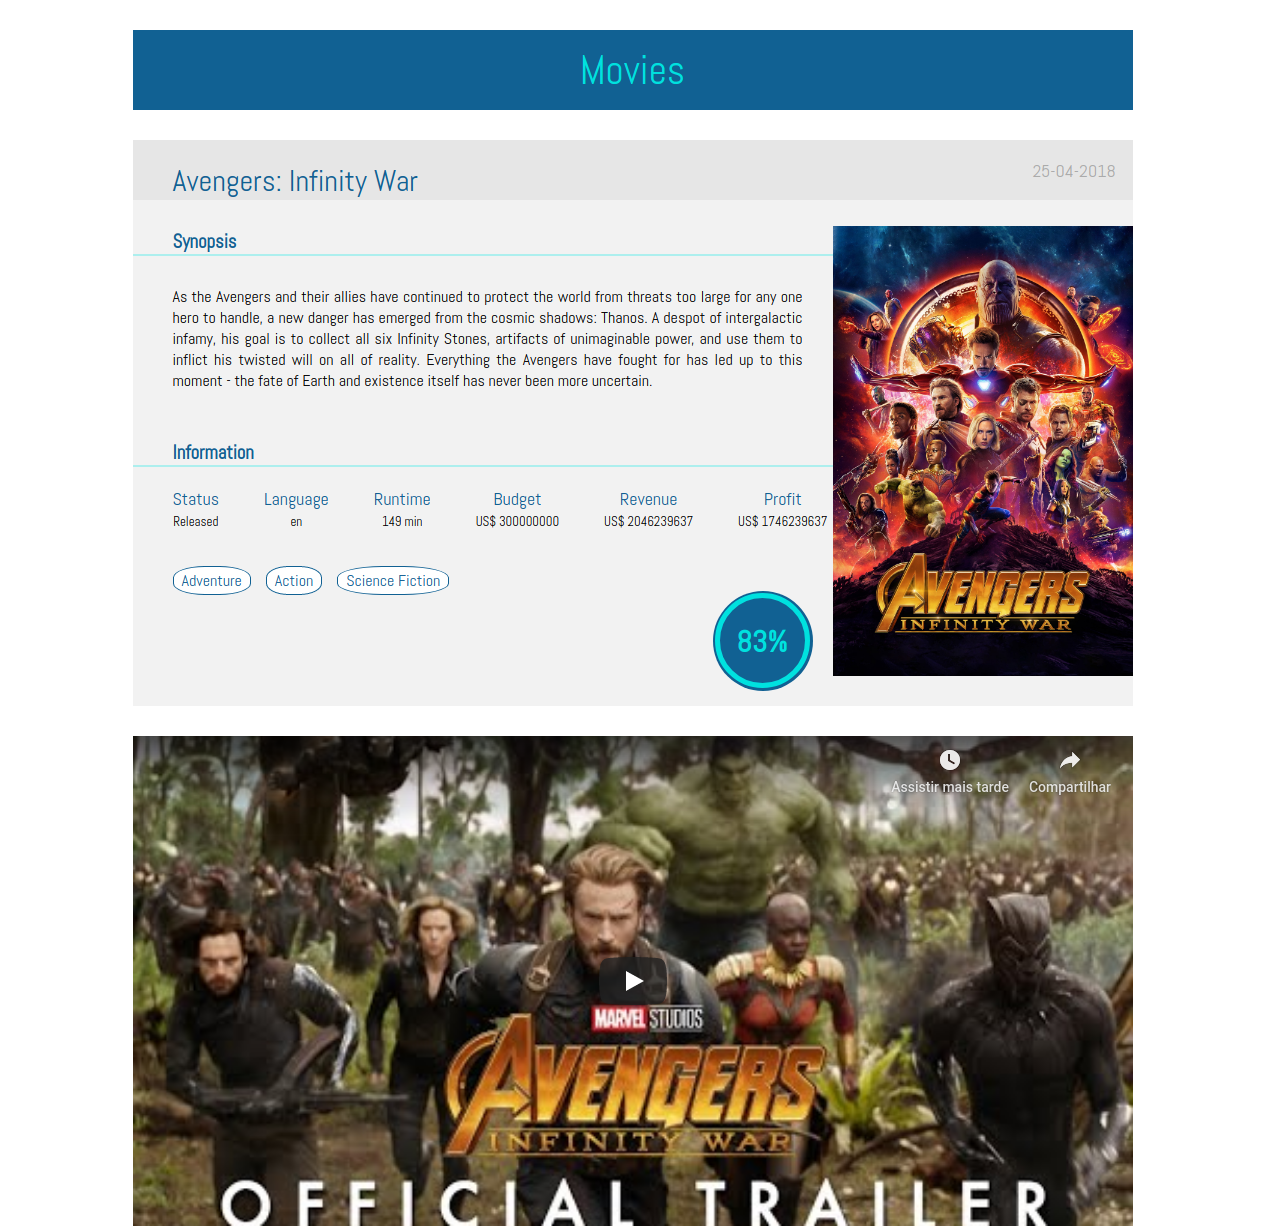
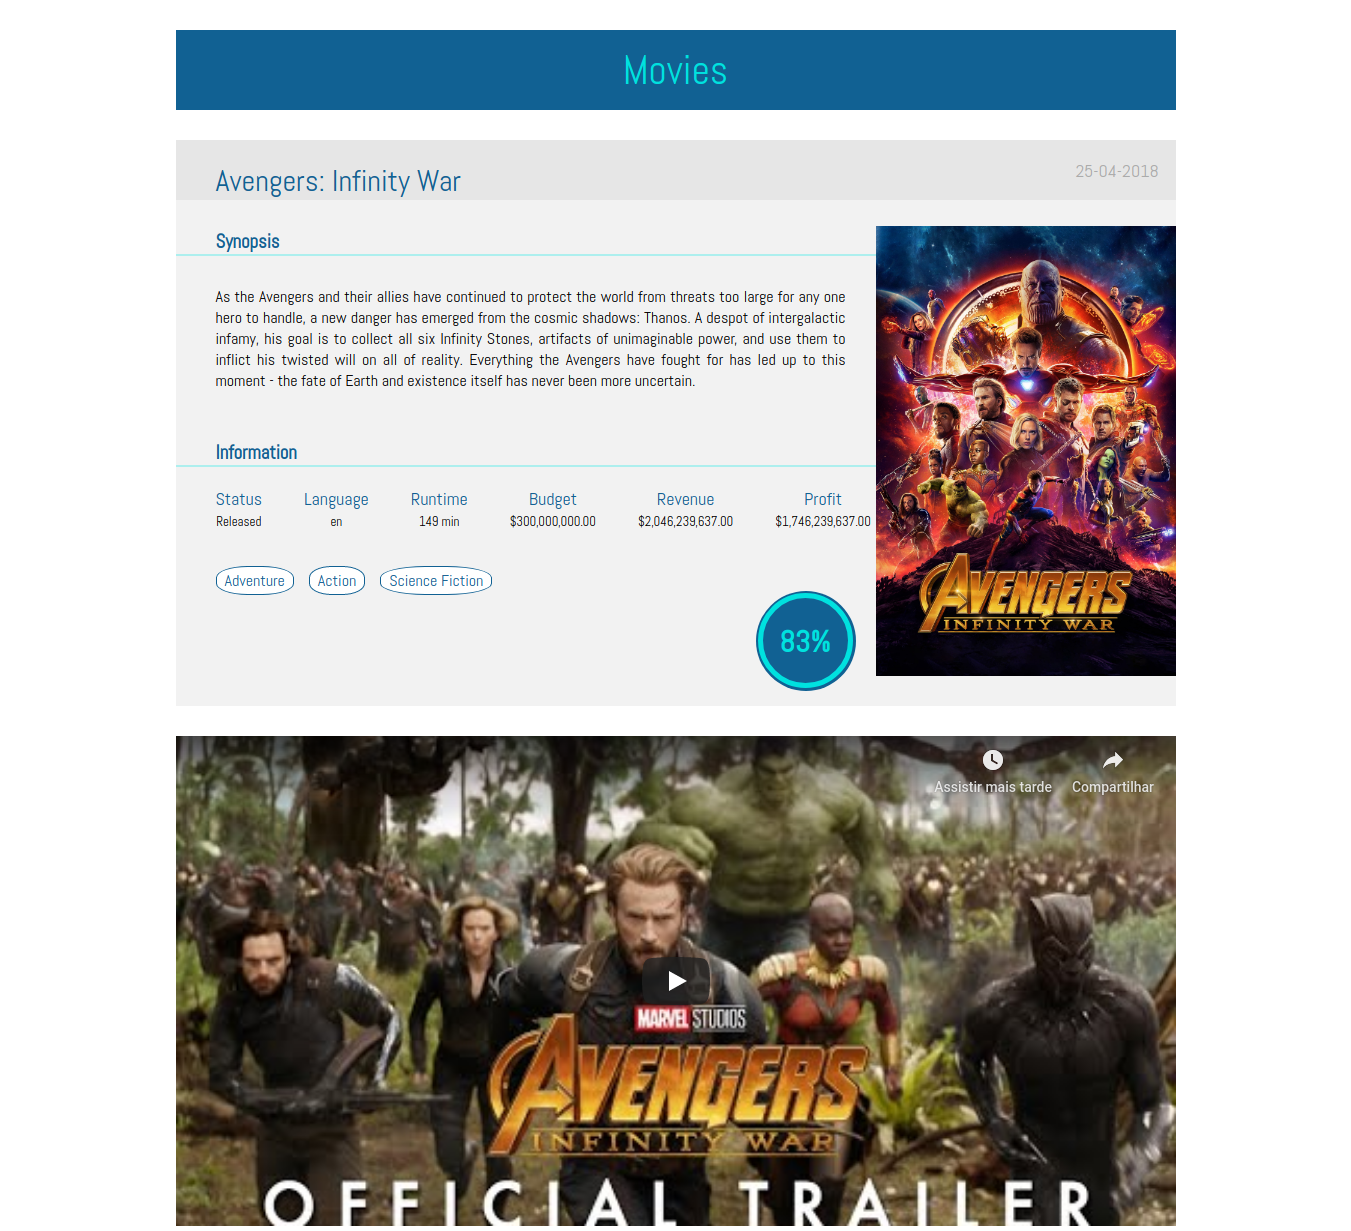
format number values

diff --git a/frontend/src/pages/MovieDetail/MovieDetail.js b/frontend/src/pages/MovieDetail/MovieDetail.js
@@ -46,6 +46,19 @@ export default function MovieDetail(props) {
         }
     }
 
+    //format number values
+    const budgetFormated = new Intl.NumberFormat('en-US', 
+        {style: 'currency', currency: 'USD'}
+    ).format(movie.budget)
+
+    const revenueFormated = new Intl.NumberFormat('en-US', 
+        {style: 'currency', currency: 'USD'}
+    ).format(movie.revenue)
+
+    const profitFormated = new Intl.NumberFormat('en-US', 
+        {style: 'currency', currency: 'USD'}
+    ).format((movie.revenue - movie.budget))
+
     return (
         <>
         <div className="content">
@@ -94,15 +107,15 @@ export default function MovieDetail(props) {
                                 </div>
                                 <div className="budget">
                                     <h4>Budget</h4>
-                                    <h5>US$ {String(movie.budget)}</h5>
+                                    <h5>{budgetFormated}</h5>
                                 </div>
                                 <div className="revenue">
                                     <h4>Revenue</h4>
-                                    <h5>US$ {String(movie.revenue)}</h5>
+                                    <h5>{revenueFormated}</h5>
                                 </div>
                                 <div className="profit">
                                     <h4>Profit</h4>
-                                    <h5>US$ {String(movie.revenue - movie.budget)}</h5>
+                                    <h5>{profitFormated}</h5>
                                 </div>
                             </div>
                         </div>

diff --git a/frontend/src/pages/MovieDetail/MovieDetail.css b/frontend/src/pages/MovieDetail/MovieDetail.css
@@ -105,7 +105,7 @@
   display: flex;
   flex-direction: column;
   align-items: center;
-  margin-right: 45px;
+  margin-right: 42px;
   white-space: nowrap;
 }
 
